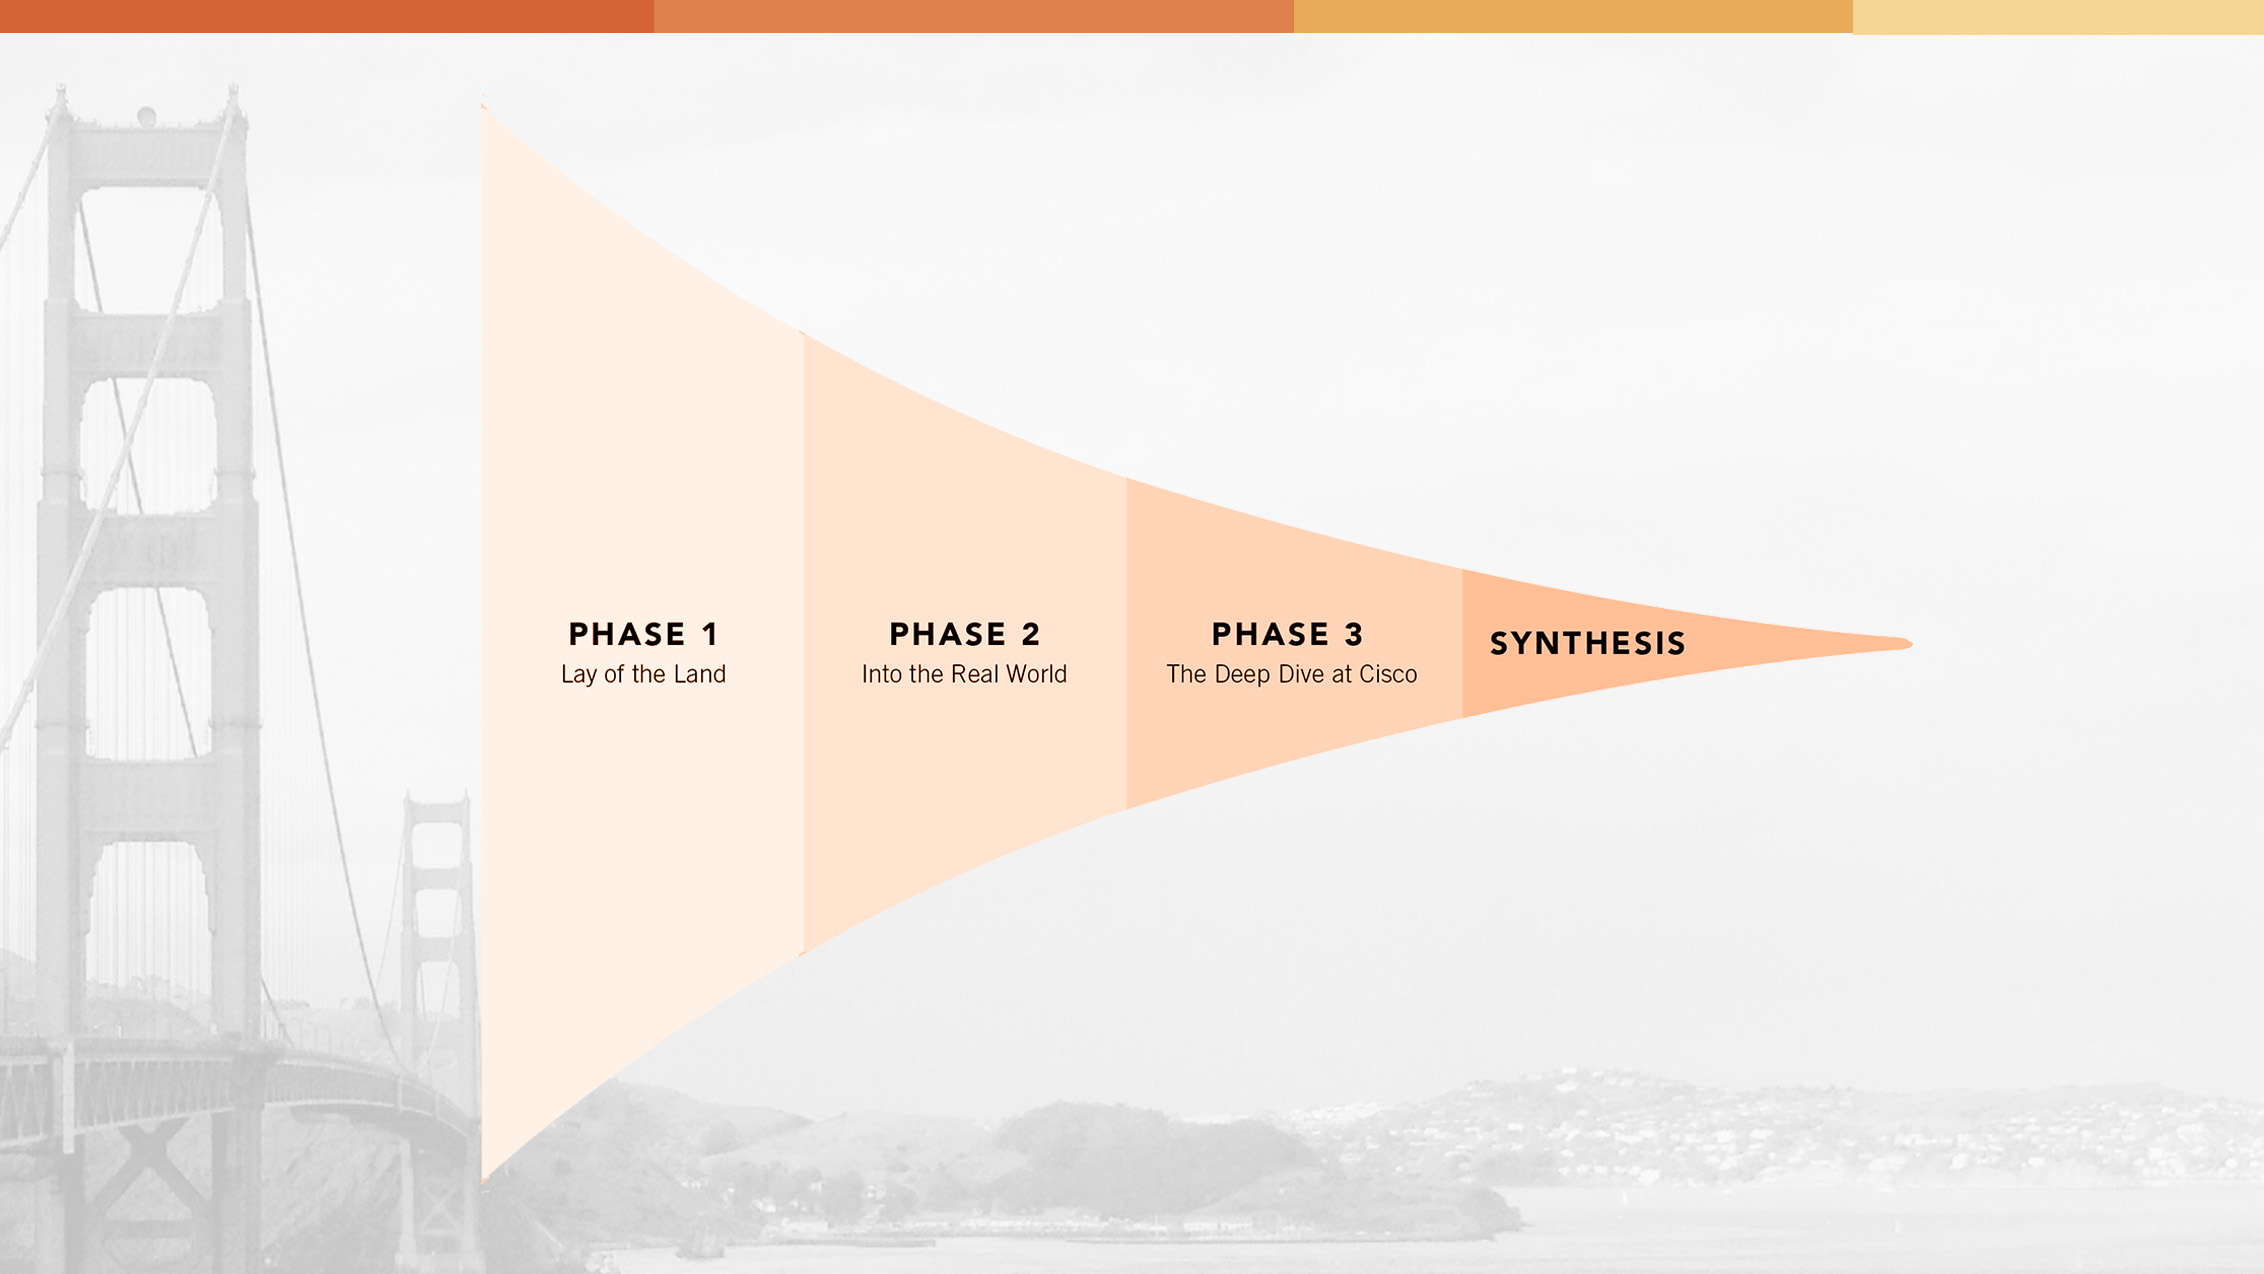
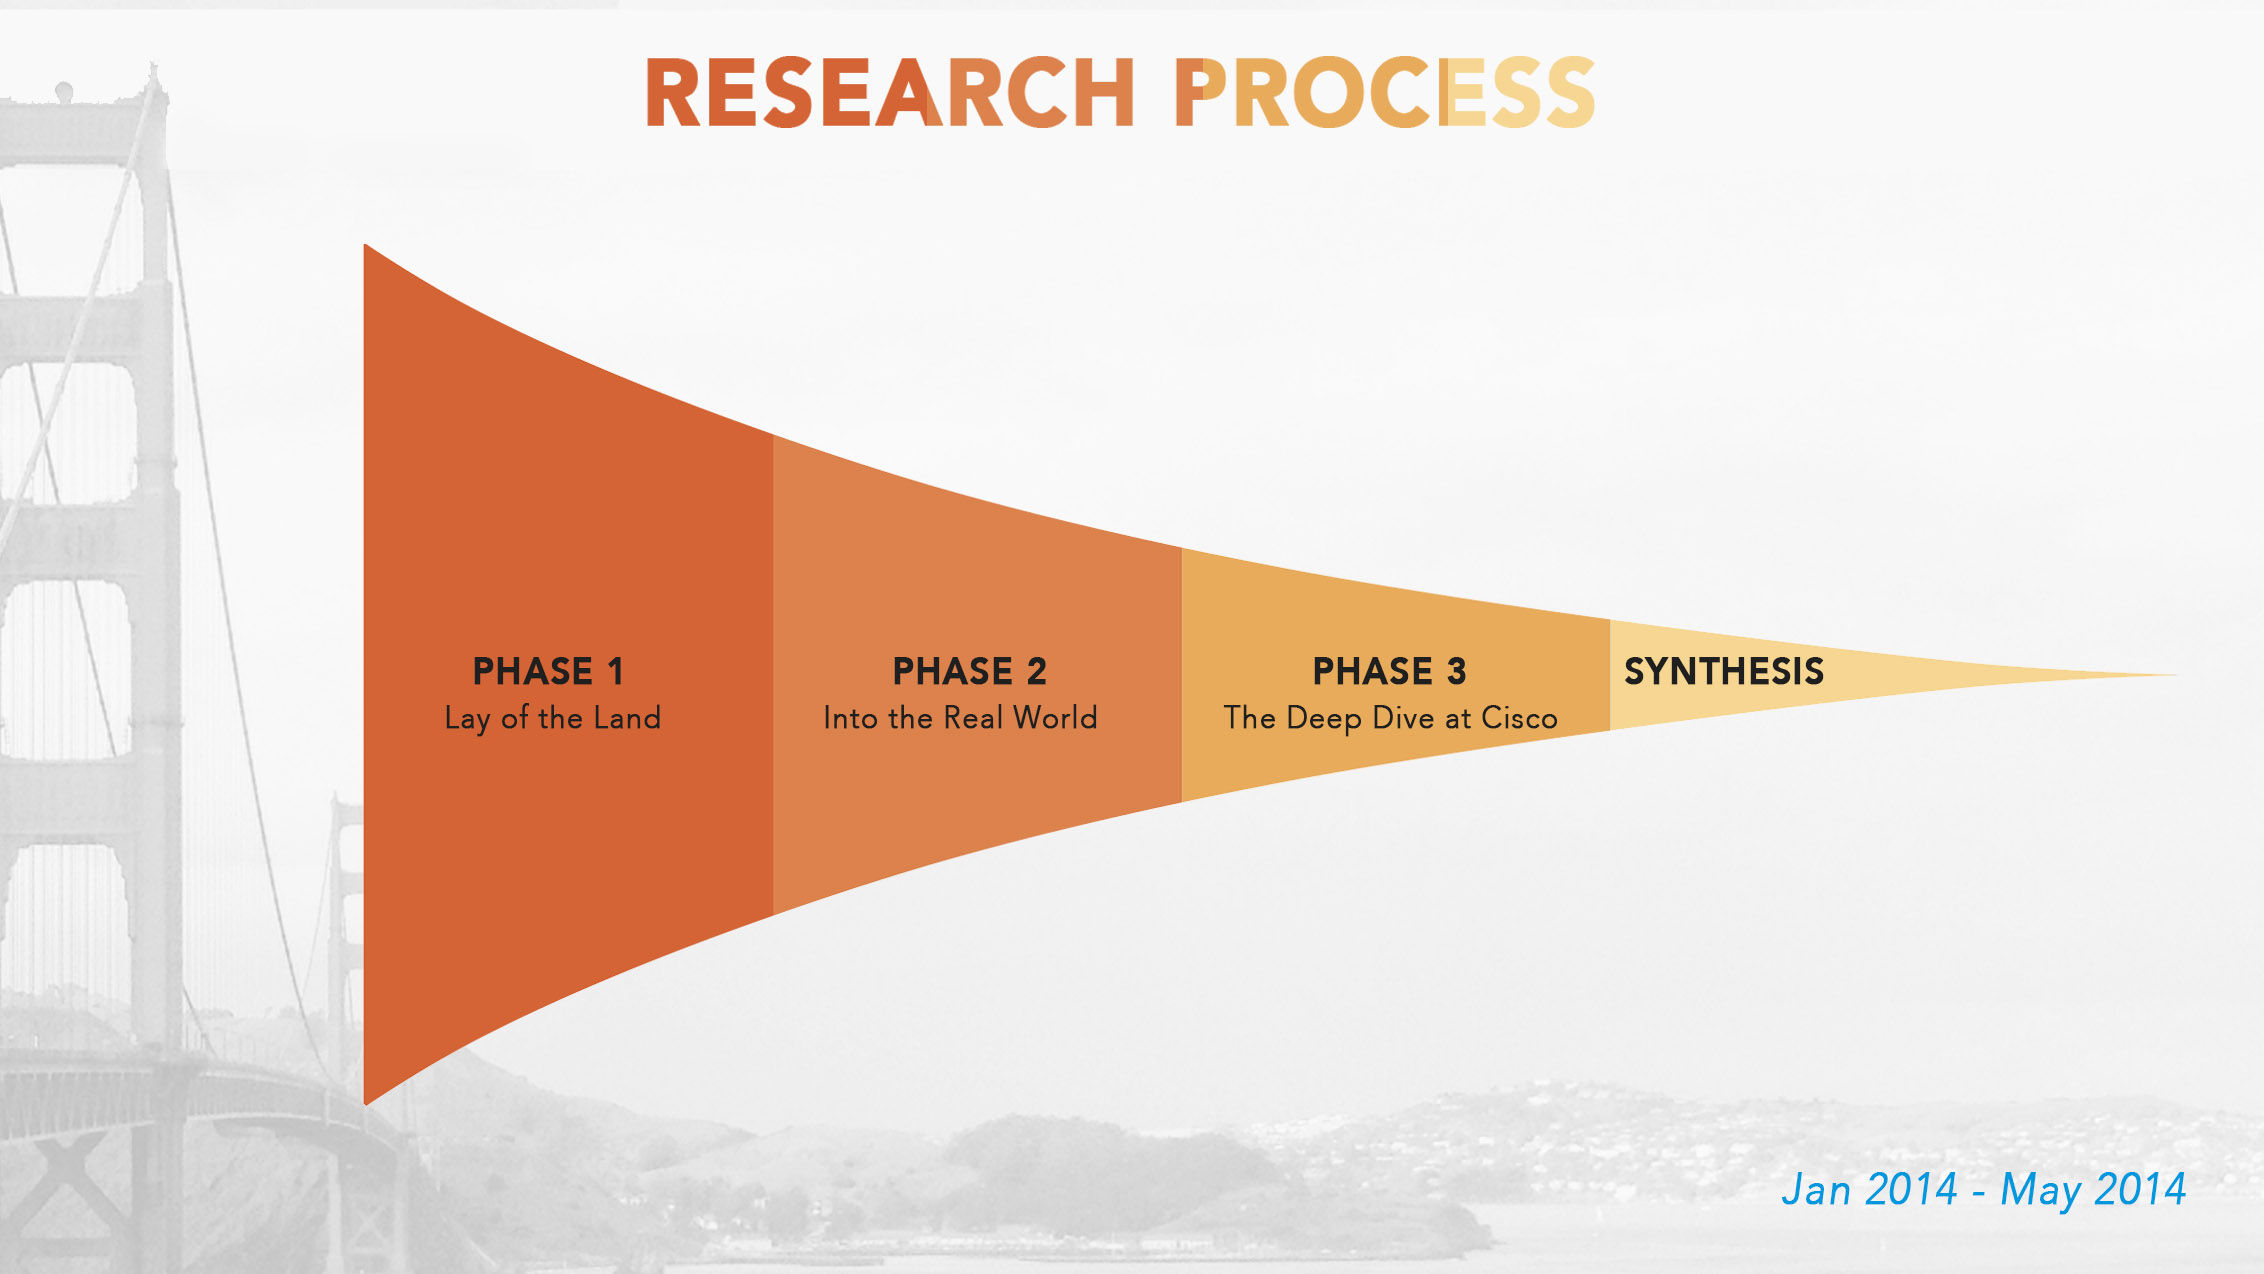
c

diff --git a/cisco.html b/cisco.html
@@ -44,26 +44,16 @@
 		    <div class="col-md-9">
 			    <h1 class="featurette-heading">Mobile Collaboration in the Workplace</h1>
 			    <p class="lead" id="about-lead">To enable people to interact with one another as naturally over technology as they do in person.</p>
-<p>What do we lose during a remote collaboration that would come naturally during face-to-face? Can technology replace unspoken cues body language and the environment? In 8 months, we research and create a design solution that encourages ad-hoc micro-collaborations in the enterprise 5-10 years in the future. <br>This is a <a href="http://www.hcii.cmu.edu/mhci-capstone-project" target="_blank" style="color: rgb(55,177,229); text-decoration: none;">MHCI capstone project</a>, and our client is <a href="http://www.cisco.com/" target="_blank" style="color: rgb(55,177,229); text-decoration: none;">Cisco System, inc</a>. <br>
+<p><img src="img/cisco/title.png" width="100%" />What do we lose during a remote collaboration that would come naturally during face-to-face? Can technology replace unspoken cues body language and the environment? In 8 months, we research and create a design solution that encourages ad-hoc micro-collaborations in the enterprise 5-10 years in the future. <br>This is a <a href="http://www.hcii.cmu.edu/mhci-capstone-project" target="_blank" style="color: rgb(55,177,229); text-decoration: none;">MHCI capstone project</a>, and our client is <a href="http://www.cisco.com/" target="_blank" style="color: rgb(55,177,229); text-decoration: none;">Cisco System, inc</a>. <br>
 <p><strong>The Team</strong></span><br />
 We are an interdisciplinary team working in an agile environment throughout the research and product development cycle.<img src="img/cisco/team.png" width="100%" /><br /></p>&nbsp;
 <p><strong>Team Logo Design: my starter</strong><br />
 <img src="img/cisco/Untitled-1-3columns-.png" width="100%" class="aligncenter size-full wp-image-1105" /></p><br>
 <p><strong>Research</strong><br />
- Due to the confidential nature of this project, I cannot share our ideas and designs. Nevertheless, I will document the process throughout the project.<br>
-After a kick-off meeting in with Cisco in January, we began our four-month research, which was divided into three phases.<br />
-<img src="img/cisco/3phase.jpg" width="100%"/><br />
-<strong>Phase 1 - Lay of the land</strong><br>
-We started by observing MHCI project team meetings, and from the data we extracted questions for us to move forward.<br>
-<img src="img/cisco/lit.jpg" width="100%"/><br />
-<strong>Phase 2 - Into the Real World</strong><br>
-We went to local Pittsburgh companies, co-working spaces, and theaters, and had a very productive interview experience. From the horse's mouth, we learned key issues and again we synthesized the data for us to move on to the next phase.<br>
-<strong>Phase 3 - Deep Dive at Cisco</strong><br>
-The team flew to Cisco offices in California. With some unique and creative research methods we used, we were able to generate key findings from a huge volume of data we collected.<br>
-
-     
-          <img src="img/cisco/travel.jpg" width="100%" class="aligncenter size-full " /></p><br>
-          <img src="img/cisco/timelapse.gif" width="400" class="aligncenter size-full" /></p>
+<img src="img/cisco/3phase.jpg" width="100%"/><br /> 
+Due to the confidential nature of this project, I cannot share our ideas and designs. Nevertheless, I will document the process throughout the project.<br>&nbsp; 
+<img src="img/cisco/long.jpg" width="100%" /></p><br>
+<img src="img/cisco/timelapse.gif" width="400" /></p>
 
 
 <!--
